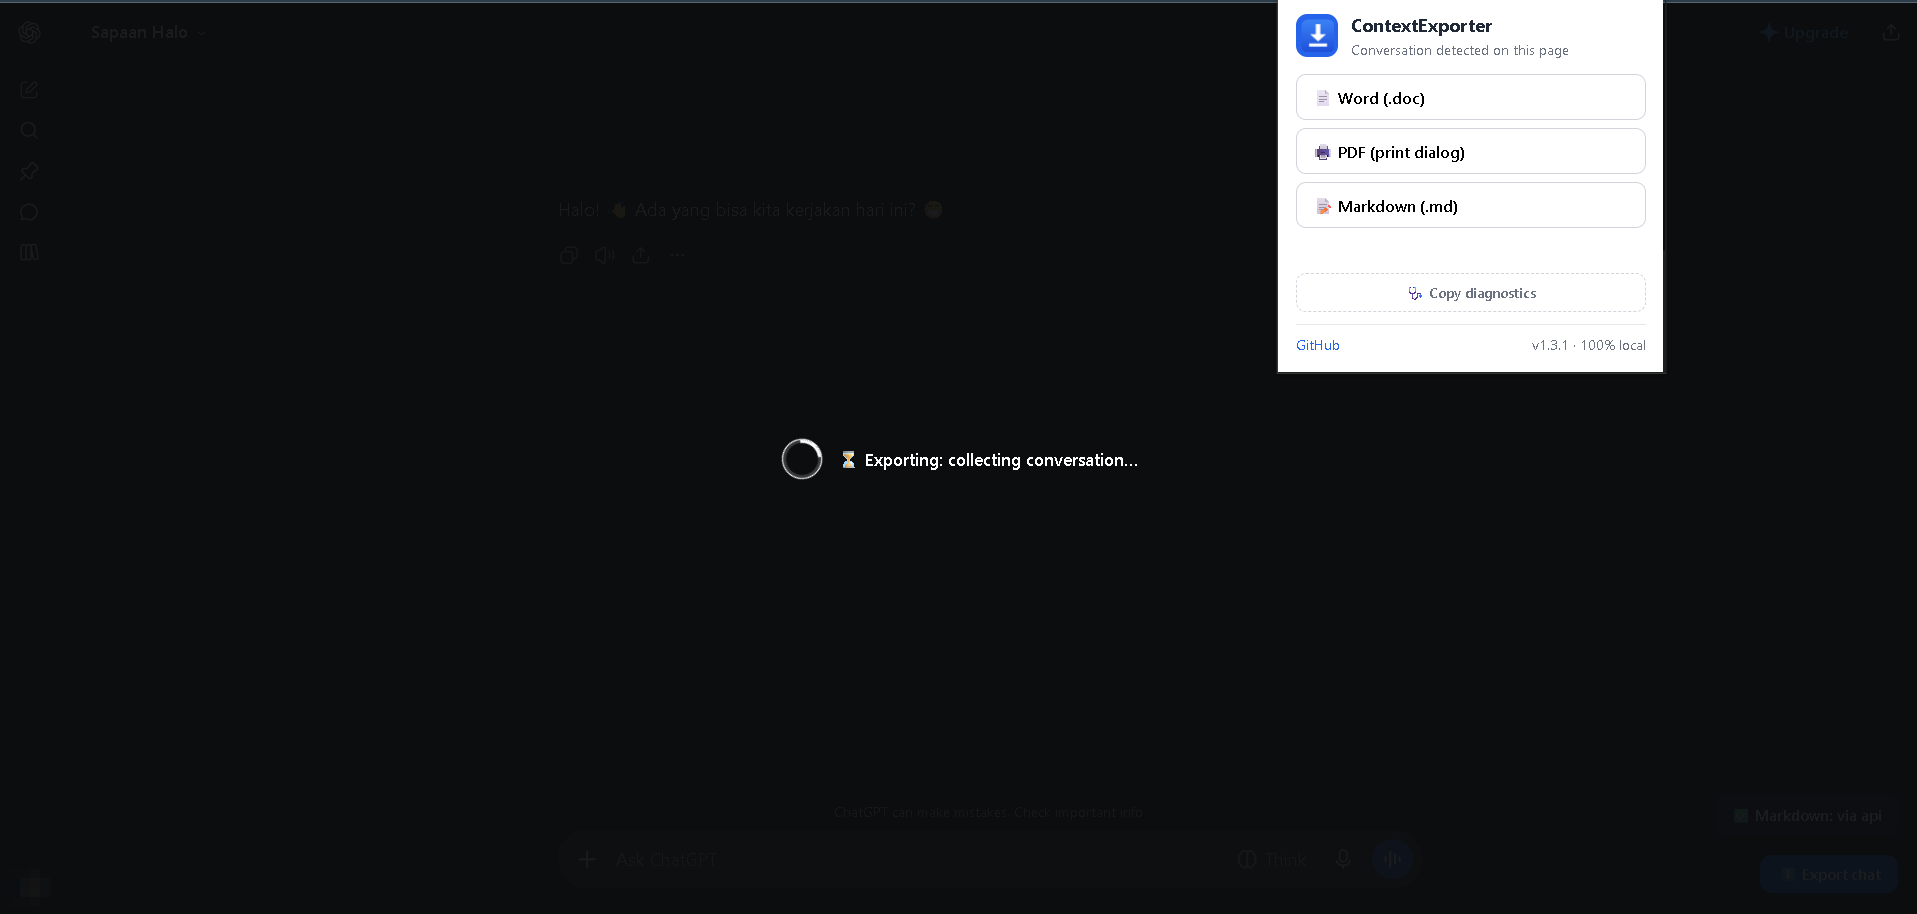
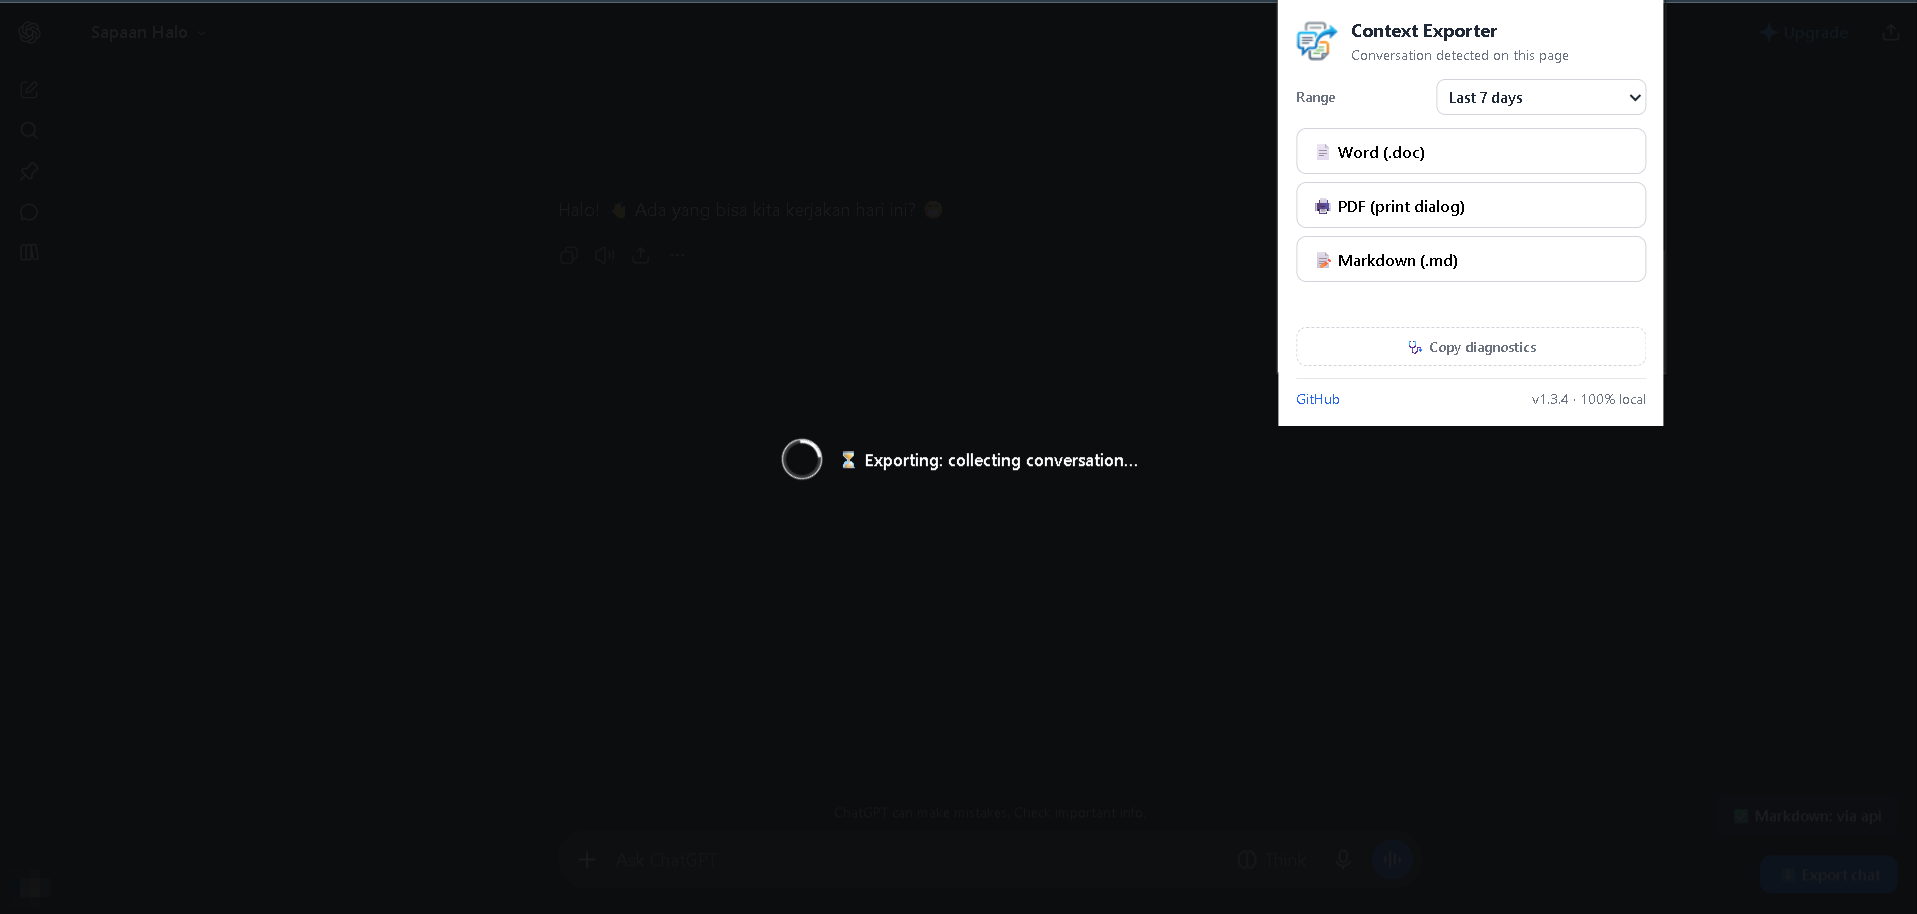
Refresh README screenshots for the v1.3.4 date range UI

diff --git a/README.md b/README.md
@@ -28,13 +28,13 @@ Everything runs locally in your browser: no account, no server, no tracking.
 
 ## Screenshots
 
-<img src="assets/screenshots/claude-export-menu.png" alt="Format menu opened from the floating button on Claude" width="720">
+<img src="assets/screenshots/claude-export-menu.png" alt="Format menu with the date range selector, opened from the floating button on Claude" width="720">
 
-*The floating **Export chat** button opens the format menu on any supported site.*
+*The floating **Export chat** button opens the menu. Pick a date range, then a format.*
 
 <img src="assets/screenshots/gemini-popup.png" alt="Toolbar popup on Gemini" width="720">
 
-*The toolbar popup detects the conversation and offers the same three formats.*
+*The toolbar popup detects the conversation and offers the same three formats. On Gemini the range stays on All time, because Gemini does not expose per-message timestamps.*
 
 <img src="assets/screenshots/chatgpt-exporting.png" alt="Export in progress on ChatGPT" width="720">
 
